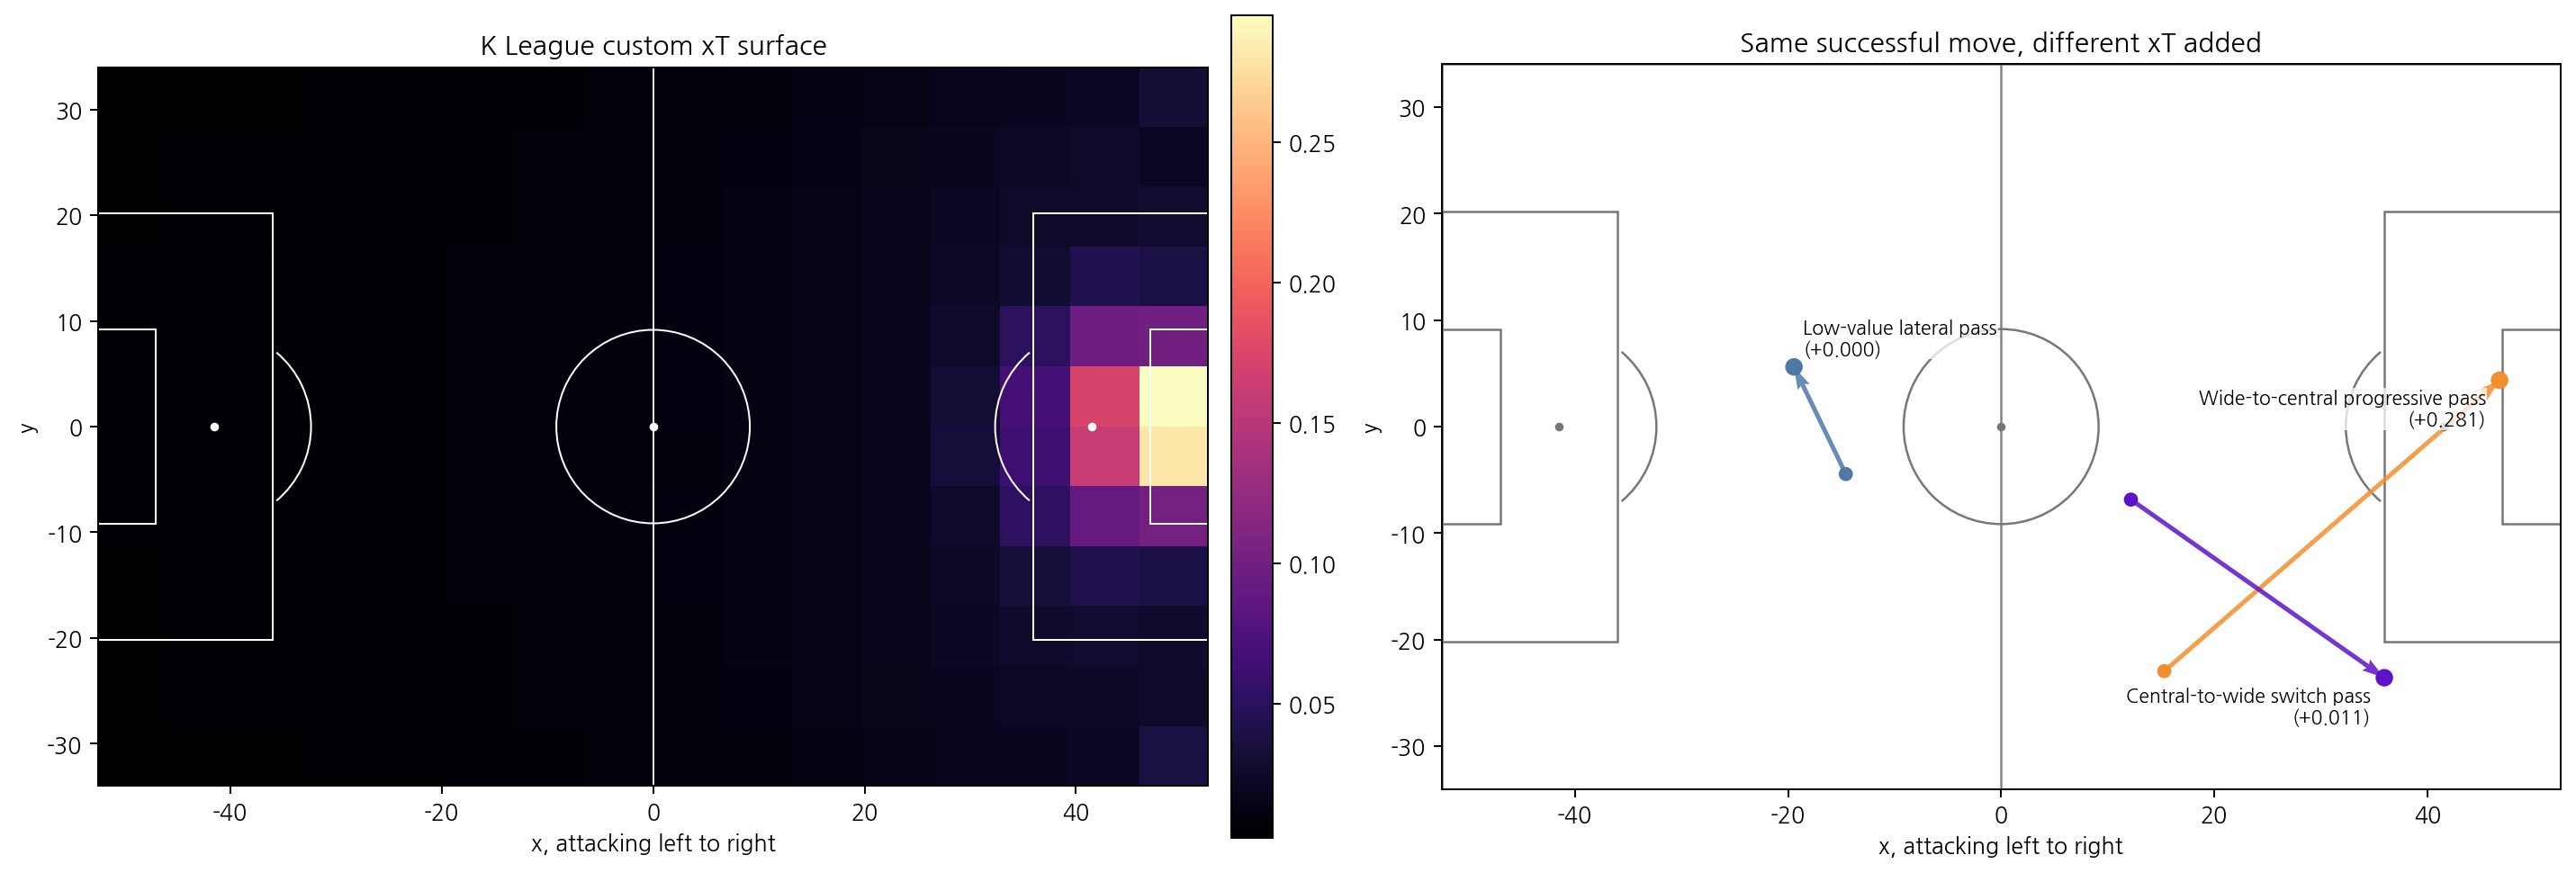
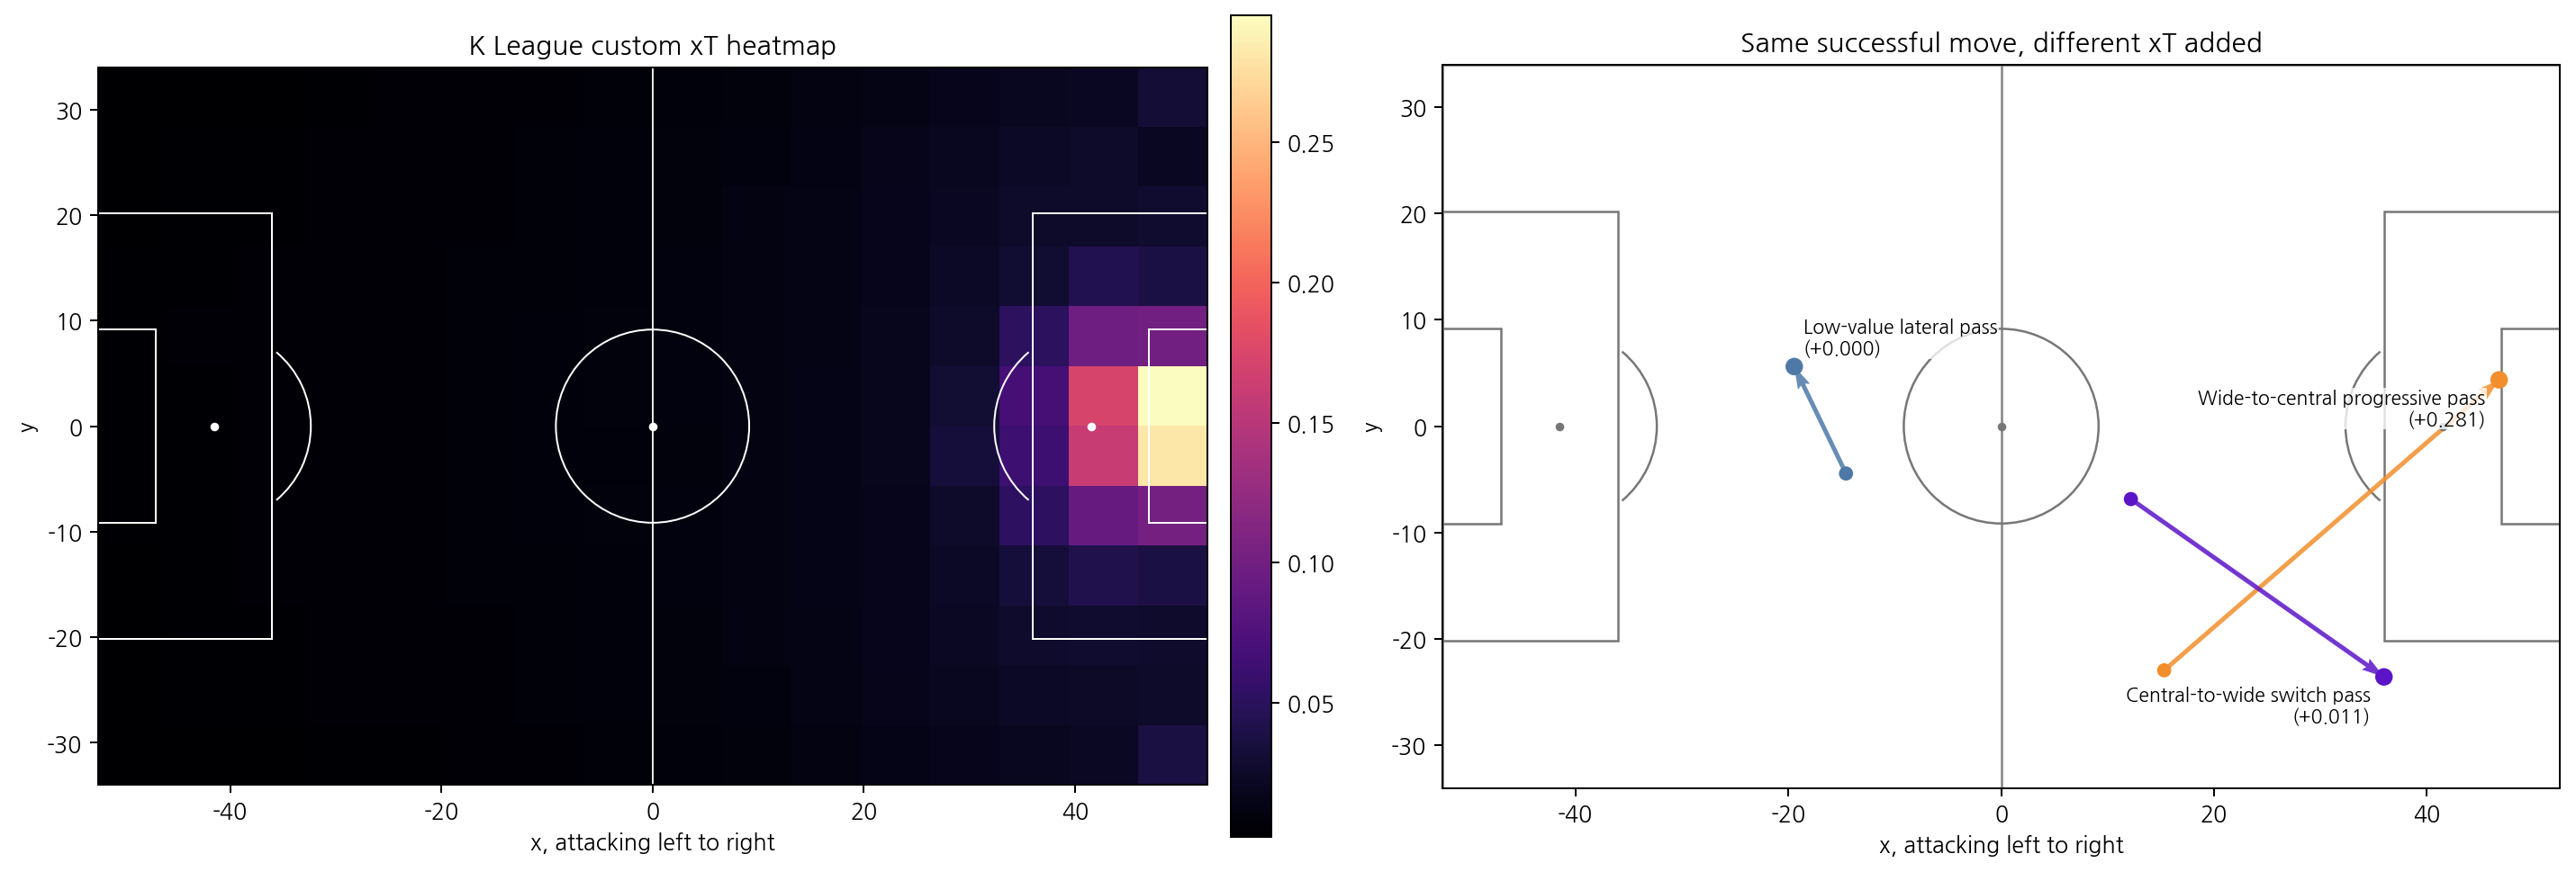
Add korean version figure.

diff --git a/posts/week3-xt.html b/posts/week3-xt.html
@@ -147,11 +147,11 @@
     <p>예를 들어 후방에서 옆으로 연결하는 패스는 성공하더라도 공의 위치가 크게 달라지지 않아 xT가 거의 증가하지 않습니다. 반대로 상대 수비 라인 사이를 지나 중앙이나 하프스페이스, 박스 앞쪽으로 공을 옮기는 패스는 이후 슈팅으로 이어질 가능성을 높이기 때문에 더 큰 xT를 얻습니다.</p>
 
     <figure class="wide">
-      <img src="../assets/insights/k-league-xt-week3/03_xt_surface_examples.png" alt="K리그 데이터로 학습한 xT 표면과, 같은 성공 패스라도 다른 xT가 부여되는 예시" loading="lazy" />
-      <figcaption>그림 3. (왼쪽) K리그 데이터로 학습한 xT 표면. (오른쪽) 모두 성공한 패스이지만 후방 횡패스·측면 전진 패스·중앙 침투 패스의 xT 증가가 서로 다르다.</figcaption>
+      <img src="../assets/insights/k-league-xt-week3/03_xt_surface_examples_ko.png" alt="K리그 커스텀 xT 히트맵과, 같은 성공 패스라도 다른 xT가 부여되는 예시" loading="lazy" />
+      <figcaption>그림 3. (왼쪽) K리그 데이터로 만든 커스텀 xT 히트맵. (오른쪽) 모두 성공한 패스이지만 시작 위치와 도착 위치에 따라 xT 증가가 서로 다르다.</figcaption>
     </figure>
 
-    <p>왼쪽은 K리그 데이터로 학습한 xT 표면입니다. 상대 골문 앞 중앙으로 갈수록 위협도가 가파르게 높아집니다. 오른쪽은 모두 성공한 패스이지만, 후방 횡패스는 xT가 거의 증가하지 않고, 측면 전진 패스는 작은 증가를, 중앙·하프스페이스로 향하는 패스는 더 큰 증가를 만듭니다.</p>
+    <p>왼쪽은 K리그 데이터로 만든 커스텀 xT 히트맵입니다. 상대 골문 앞 중앙으로 갈수록 위협도가 가파르게 높아집니다. 오른쪽은 모두 성공한 패스이지만, 후방 횡패스는 xT가 거의 증가하지 않고, 더 위험한 공간으로 향하는 전진 패스는 더 큰 증가를 만듭니다.</p>
 
     <p>여기서 xT와 xPass의 차이도 분명히 해둘 필요가 있습니다. xPass가 해당 패스가 얼마나 성공하기 어려웠는지를 평가한다면, xT는 성공한 패스나 캐리가 공을 얼마나 더 위험한 위치로 이동시켰는지를 평가합니다. 다시 말해, xT는 패스의 난이도보다 그 행동 이후 공이 놓인 위치의 공격적 가치를 보는 지표입니다.</p>
 
@@ -162,7 +162,7 @@
     <p>아래 그래프를 통해 K리그 팀들의 xT를 확인할 수 있습니다. 그래프의 오른쪽으로 갈수록 시즌 동안 더 많은 위협을 쌓은 팀이고, 위로 갈수록 한 번의 행동이 평균적으로 더 큰 xT 증가를 만든 팀입니다.</p>
 
     <figure class="wide">
-      <img src="../assets/insights/k-league-xt-week3/04_team_volume_vs_density.png" alt="2025 K리그 팀별 총 xT와 행동당 xT 비교" loading="lazy" />
+      <img src="../assets/insights/k-league-xt-week3/04_team_volume_vs_density_ko.png" alt="2025 K리그 팀별 총 xT와 행동당 xT 비교" loading="lazy" />
       <figcaption>그림 4. 가로축은 시즌 총 xT(위협의 양), 세로축은 100행동당 xT(행동당 위협 밀도), 점 크기는 소유당 행동 수를 나타낸다.</figcaption>
     </figure>
 
@@ -179,7 +179,7 @@
     <p>대구는 시즌 전체 xT와 행동당 xT 모두 상위권에 위치했습니다. 공격의 양도 적지 않았고, 적은 행동 안에서 공을 위험 지역으로 옮기는 장면도 많았습니다. 그러나 그 위협은 결국 강등을 막을 만큼의 결과로 이어지지 못했습니다.</p>
 
     <figure class="wide">
-      <img src="../assets/insights/k-league-xt-week3/08_daegu_dependency_conversion.png" alt="대구 선수별 xT 의존도, 상위 3명 비중, xT의 xG 전환율 비교" loading="lazy" />
+      <img src="../assets/insights/k-league-xt-week3/08_daegu_dependency_conversion_ko.png" alt="대구 선수별 xT 의존도, 상위 3명 비중, xT의 xG 전환율 비교" loading="lazy" />
       <figcaption>그림 5. (왼쪽) 대구 선수별 xT 의존도, (가운데) 팀별 상위 3명의 양의 xT 비중, (오른쪽) 팀별 xT의 xG 전환율. 대구는 핵심 선수 집중도가 높고 xT의 xG 전환율은 리그 최저였다.</figcaption>
     </figure>
 
@@ -189,20 +189,20 @@
 
     <p>대구의 사례는 xT가 공격의 전진 과정을 보여주는 지표라는 점을 다시 확인시켜 줍니다. 위험 지역까지 공을 옮긴 뒤 그것을 기회와 득점으로 완성하는 과정, 그리고 수비에서의 결과는 xT만으로 설명할 수 없습니다.</p>
 
-    <h2>4. 팀마다 다른 xT 지도</h2>
+    <h2>4. 팀마다 다른 xT 히트맵</h2>
 
     <p>xT는 리그 전체의 평균적인 위치 가치만으로 계산할 수도 있지만, 팀별 행동 패턴을 따로 학습하면 조금 다른 그림이 나옵니다.</p>
 
     <figure class="wide">
-      <img src="../assets/insights/k-league-xt-week3/09_team_specific_maps.png" alt="팀별 데이터로 학습한 xT 표면과 리그 평균 대비 비교" loading="lazy" />
-      <figcaption>그림 6. (위) 각 팀의 데이터로 학습한 xT 표면, (아래) 리그 평균과의 차이. 골문 앞 중앙이 가장 높은 것은 공통이지만, 박스 앞·하프스페이스·측면의 상대적 가치는 팀마다 다르다.</figcaption>
+      <img src="../assets/insights/k-league-xt-week3/09_team_specific_maps_ko.png" alt="팀별 K리그 커스텀 xT 히트맵과 리그 평균 대비 비교" loading="lazy" />
+      <figcaption>그림 6. (위) 팀별 K리그 커스텀 xT 히트맵, (아래) 리그 평균과의 차이. 골문 앞 중앙이 가장 높은 것은 공통이지만, 박스 앞·하프스페이스·측면의 상대적 가치는 팀마다 다르다.</figcaption>
     </figure>
 
-    <p>위쪽 지도는 각 팀의 데이터로 만든 xT 표면이고, 아래쪽 지도는 이를 리그 평균과 비교한 결과입니다. 모든 팀에서 상대 골문 앞 중앙의 위협도가 가장 높은 것은 같습니다. 그러나 박스 앞과 하프스페이스, 측면에서 어느 위치의 가치가 상대적으로 더 높게 나타나는지는 팀마다 조금씩 달랐습니다.</p>
+    <p>위쪽 히트맵은 각 팀의 데이터로 만든 커스텀 xT 히트맵이고, 아래쪽 히트맵은 이를 리그 평균과 비교한 결과입니다. 모든 팀에서 상대 골문 앞 중앙의 위협도가 가장 높은 것은 같습니다. 그러나 박스 앞과 하프스페이스, 측면에서 어느 위치의 가치가 상대적으로 더 높게 나타나는지는 팀마다 조금씩 달랐습니다.</p>
 
-    <p>여기서 중요한 점은 이 지도가 “각 팀이 실제로 어느 구역에서 xT를 가장 많이 만들었는가”를 직접 보여주는 것은 아니라는 점입니다. 대신 같은 위치에서 공을 가졌을 때, 그 팀의 이후 전개가 리그 평균보다 더 위협적으로 이어졌는지를 보여줍니다.</p>
+    <p>여기서 중요한 점은 이 히트맵이 “각 팀이 실제로 어느 구역에서 xT를 가장 많이 만들었는가”를 직접 보여주는 것은 아니라는 점입니다. 대신 같은 위치에서 공을 가졌을 때, 그 팀의 이후 전개가 리그 평균보다 더 위협적으로 이어졌는지를 보여줍니다.</p>
 
-    <p>이런 팀별 xT 지도는 단순히 시각적으로 비교하는 데서 끝나지 않습니다. 상대팀 분석에서는 어느 구역에서 공을 잡았을 때 위협적인 전개가 자주 이어지는지 확인할 수 있고, 우리 팀 분석에서는 어떤 공간을 통해 공격의 가치를 쌓는 경향이 있는지 점검할 수 있습니다.</p>
+    <p>이런 팀별 xT 히트맵은 단순히 시각적으로 비교하는 데서 끝나지 않습니다. 상대팀 분석에서는 어느 구역에서 공을 잡았을 때 위협적인 전개가 자주 이어지는지 확인할 수 있고, 우리 팀 분석에서는 어떤 공간을 통해 공격의 가치를 쌓는 경향이 있는지 점검할 수 있습니다.</p>
 
     <div class="callout">
       <p class="callout-title">💡 인터랙티브 시각화</p>
@@ -210,7 +210,7 @@
     </div>
 
     <div class="interactive-embed">
-      <iframe src="../assets/insights/k-league-xt-week3/team_danger_zones_open_play_2025_ko.html" title="K리그 팀별 xT danger zone 인터랙티브 시각화" loading="lazy"></iframe>
+      <iframe src="../assets/insights/k-league-xt-week3/team_danger_zones_open_play_2025_ko.html" title="K리그 팀별 xT 위험 구역 인터랙티브 시각화" loading="lazy"></iframe>
       <p class="embed-fallback">시각화가 보이지 않으면 <a href="../assets/insights/k-league-xt-week3/team_danger_zones_open_play_2025_ko.html" target="_blank" rel="noopener">새 탭에서 전체 화면으로 열기</a>를 눌러 주세요.</p>
     </div>
 
@@ -223,8 +223,8 @@
     <p>먼저 2025년 K리그 선수별 총 xT와 패스·캐리 xT 순위를 살펴보겠습니다.</p>
 
     <figure class="wide">
-      <img src="../assets/insights/k-league-xt-week3/10_player_rankings.png" alt="2025 K리그 선수별 총 xT · Pass xT · Carry xT 순위 상위 5명" loading="lazy" />
-      <figcaption>표 1. 2025 K리그 선수별 총 xT · Pass xT · Carry xT 상위 5명.</figcaption>
+      <img src="../assets/insights/k-league-xt-week3/10_player_rankings_ko.png" alt="2025 K리그 선수별 총 xT · 패스 xT · 캐리 xT 순위 상위 5명" loading="lazy" />
+      <figcaption>표 1. 2025 K리그 선수별 총 xT · 패스 xT · 캐리 xT 상위 5명.</figcaption>
     </figure>
 
     <p>눈에 띄는 것은 전형적인 9번 스트라이커보다 풀백과 플레이메이커가 상위권에 많다는 점입니다. xT는 누가 슈팅을 마무리했는지가 아니라, 그 슈팅이 가능해지는 위치까지 누가 공을 전진시켰는지를 평가합니다. 그래서 빌드업과 공격 전개의 시작점에 자주 서는 풀백, 그리고 전진 패스와 운반을 반복하는 플레이메이커가 높은 xT를 기록하기 쉽습니다.</p>
@@ -232,7 +232,7 @@
     <p>다만 순위만으로는 각 선수가 어떤 방식으로 위협을 만들었는지까지는 알 수 없습니다. 이를 위해 선수별 누적 xT를 패스와 캐리로 나눠 비교했습니다. 그래프의 오른쪽으로 갈수록 패스를 통해 더 많은 위협을 만든 선수이고, 위로 갈수록 직접 공을 운반하며 더 많은 위협을 만든 선수입니다. 파란 점은 패스 xT 비중이 높은 선수, 주황 점은 캐리 xT 비중이 상대적으로 높은 선수를 뜻합니다.</p>
 
     <figure class="wide">
-      <img src="../assets/insights/k-league-xt-week3/05_player_pass_vs_carry.png" alt="2025 K리그 선수별 누적 패스 xT와 캐리 xT 비교" loading="lazy" />
+      <img src="../assets/insights/k-league-xt-week3/05_player_pass_vs_carry_ko.png" alt="2025 K리그 선수별 누적 패스 xT와 캐리 xT 비교" loading="lazy" />
       <figcaption>그림 7. 선수별 누적 패스 xT(가로)와 캐리 xT(세로). 김진수는 오른쪽 끝(패스형), 조르지, 주닝요, 아사니 등은 위쪽(캐리형)에 위치한다.</figcaption>
     </figure>
 
@@ -252,8 +252,8 @@
 
     <figure class="wide">
       <div class="figure-two-up">
-        <img src="../assets/insights/k-league-xt-week3/06_lee_taeseok_routes.png" alt="이태석 2025 K리그 상위 xT 경로" loading="lazy" />
-        <img src="../assets/insights/k-league-xt-week3/07_kim_jinsu_routes.png" alt="김진수 2025 K리그 상위 xT 경로" loading="lazy" />
+        <img src="../assets/insights/k-league-xt-week3/06_lee_taeseok_routes_ko.png" alt="이태석 2025 K리그 상위 xT 경로" loading="lazy" />
+        <img src="../assets/insights/k-league-xt-week3/07_kim_jinsu_routes_ko.png" alt="김진수 2025 K리그 상위 xT 경로" loading="lazy" />
       </div>
       <figcaption>그림 8. 이태석(왼쪽)과 김진수(오른쪽)의 상위 45개 양의 xT 행동. 두 선수 모두 왼쪽 풀백이지만 높은 xT가 만들어진 위치가 다르다.</figcaption>
     </figure>